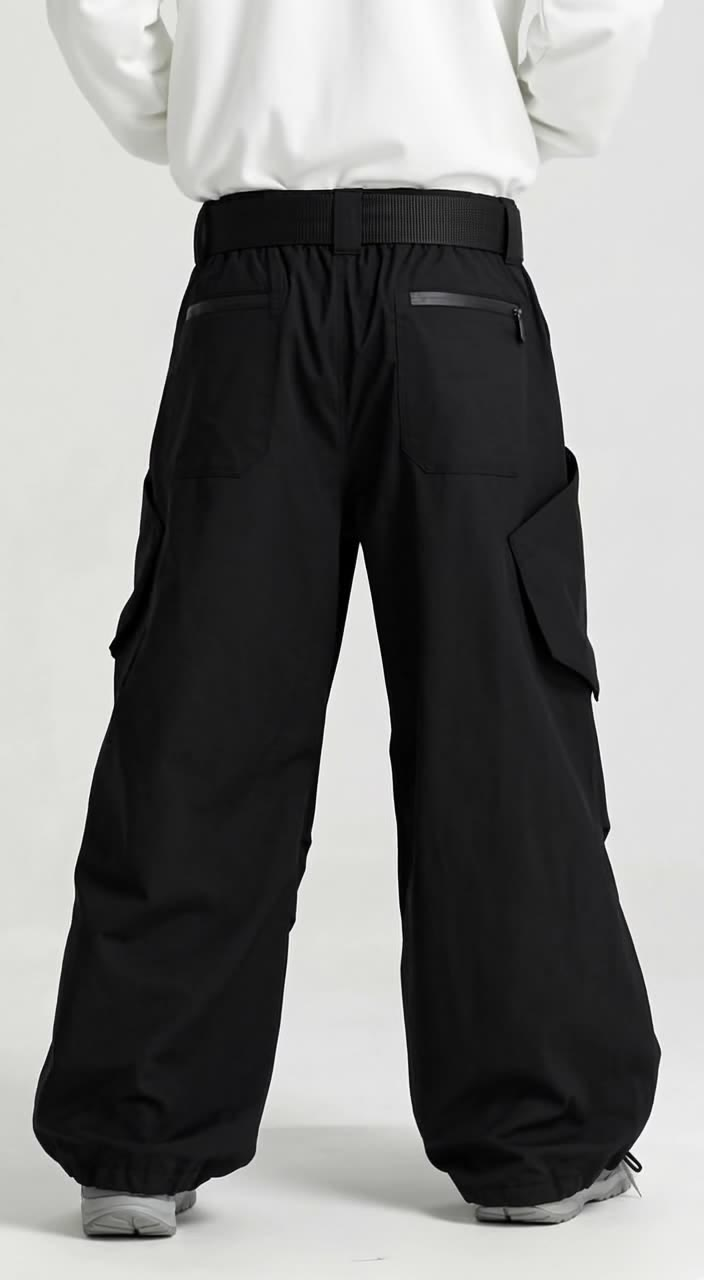
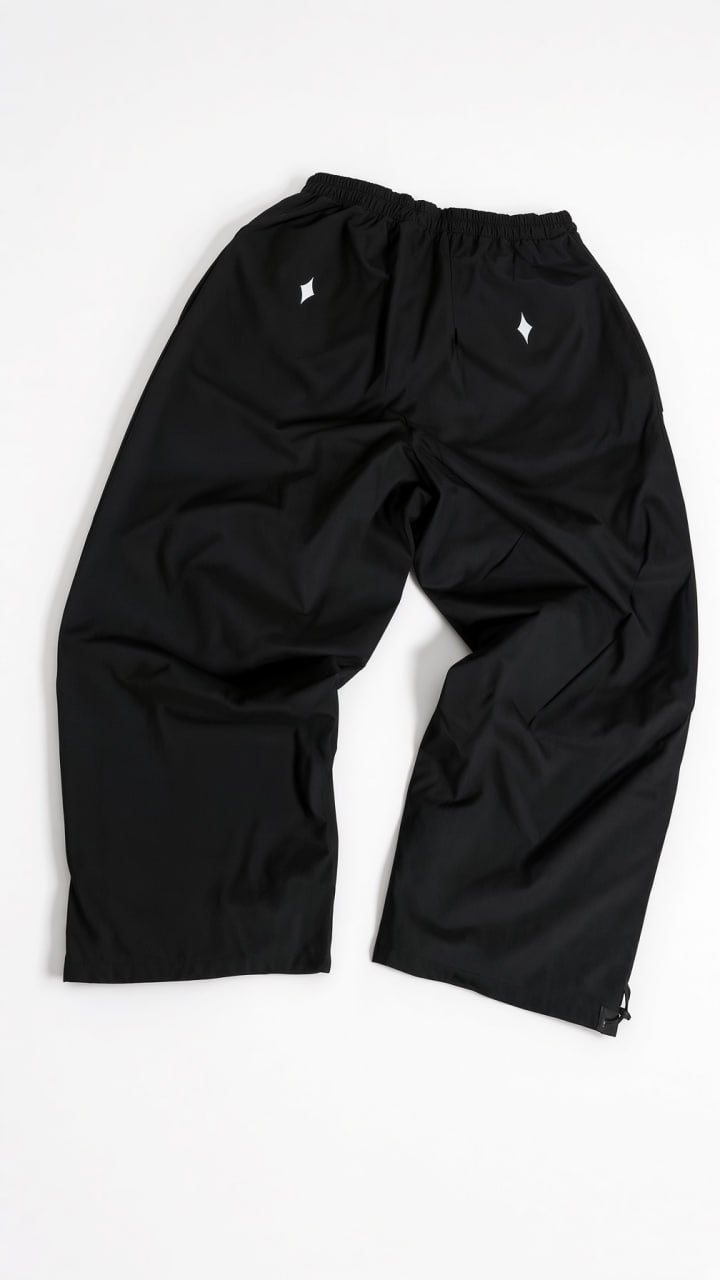
Штаны: настоящие фото, характеристики из описания, размерная сетка, уход за мембранной тканью

diff --git a/index.html b/index.html
@@ -90,10 +90,11 @@
         <div class="hp-gallery" id="hpGallery" aria-label="Фото штанов">
           <div class="hp-gallery__track" id="hpTrack">
             <figure class="hp-gallery__item"><img src="assets/pants/1.jpg" alt="Широкие горнолыжные штаны Coulair Club на райдере" loading="lazy"></figure>
-            <figure class="hp-gallery__item"><img src="assets/pants/2.jpg" alt="Штаны спереди" loading="lazy"></figure>
-            <figure class="hp-gallery__item"><img src="assets/pants/3.jpg" alt="Штаны сбоку" loading="lazy"></figure>
+            <figure class="hp-gallery__item"><img src="assets/pants/2.jpg" alt="Штаны на модели, вид спереди" loading="lazy"></figure>
+            <figure class="hp-gallery__item"><img src="assets/pants/3.jpg" alt="Штаны спереди" loading="lazy"></figure>
             <figure class="hp-gallery__item"><img src="assets/pants/4.jpg" alt="Штаны сзади" loading="lazy"></figure>
-            <figure class="hp-gallery__item hp-gallery__item--wide"><img src="assets/pants/5.jpg" alt="Логотип и карабин крупно" loading="lazy"></figure>
+            <figure class="hp-gallery__item"><img src="assets/pants/5.jpg" alt="Штаны Coulair Club, несколько пар" loading="lazy"></figure>
+            <figure class="hp-gallery__item"><img src="assets/pants/6.jpg" alt="Логотип и карабин крупно" loading="lazy"></figure>
           </div>
           <div class="hp-gallery__dots" id="hpDots" aria-hidden="true"></div>
         </div>
@@ -112,6 +113,7 @@
             <div class="sizes">
               <div class="sizes__head">
                 <p class="sizes__label">Размер</p>
+                <button class="sizes__guide" type="button" data-open-acc="sizeChart">Размерная сетка</button>
               </div>
               <div class="sizes__list" id="sizeList" role="radiogroup" aria-label="Размер">
                 <button class="size" role="radio" aria-checked="false" data-size="M">M</button>
@@ -133,12 +135,33 @@
               <summary>Характеристики</summary>
               <div class="specs-acc__body">
               <ol class="specs-acc__list">
-                <li><strong>Высокая водонепроницаемость 15k:</strong> разработано с показателем 15 000 мм для полной защиты от влаги в условиях сильного снегопада и влажной погоды.</li>
-                <li><strong>Премиальная композитная ткань 3L:</strong> трёхслойная конструкция обеспечивает превосходную защиту от ветра, воздухопроницаемость и исключительную прочность.</li>
-                <li><strong>Модный дизайн в стиле карго:</strong> свободный крой и функциональные карманы, объединяющие уличную моду с атлетической функциональностью.</li>
-                <li><strong>Профессиональная эргономика для катания:</strong> шарнирные колени и усиленные манжеты, специально разработанные для агрессивных движений в сноуборде.</li>
-                <li><strong>TerraNomad Factory Direct:</strong> поставляется от проверенных специалистов по лыжной одежде с полным соблюдением экспортных требований и поддержкой оптовых закупок.</li>
+                <li><strong>Свободный крой в стиле стритвир:</strong> увеличенный фасон в стиле сноуборда соответствует современным зимним трендам и создаёт расслабленный образ.</li>
+                <li><strong>Свобода движений:</strong> широкий крой штанин обеспечивает комфорт при приседаниях, катании и активных движениях на сноуборде и лыжах.</li>
+                <li><strong>Прочный материал рипстоп:</strong> ткань снижает риск разрывов при частом использовании на открытом воздухе.</li>
+                <li><strong>Водонепроницаемость 10K:</strong> мембрана 10&nbsp;000&nbsp;мм защищает от влаги при ежедневном катании и отдыхе на курорте.</li>
               </ol>
+              </div>
+            </details>
+
+            <details class="specs-acc" id="sizeChart">
+              <summary>Размерная сетка</summary>
+              <div class="specs-acc__body">
+                <div class="size-table__wrap">
+                  <table class="size-table">
+                    <thead>
+                      <tr><th>Размер</th><th>Талия</th><th>Бёдра</th><th>Длина</th><th>Длина по внутр. шву</th><th>Обхват бедра</th></tr>
+                    </thead>
+                    <tbody>
+                      <tr><td>XS</td><td>72</td><td>140</td><td>100</td><td>67</td><td>82</td></tr>
+                      <tr><td>S</td><td>76</td><td>146</td><td>103</td><td>69</td><td>84</td></tr>
+                      <tr class="is-stock"><td>M</td><td>80</td><td>152</td><td>106</td><td>71</td><td>86</td></tr>
+                      <tr class="is-stock"><td>L</td><td>84</td><td>158</td><td>109</td><td>73</td><td>88</td></tr>
+                      <tr class="is-stock"><td>XL</td><td>88</td><td>164</td><td>112</td><td>75</td><td>90</td></tr>
+                      <tr><td>XXL</td><td>92</td><td>170</td><td>115</td><td>77</td><td>92</td></tr>
+                    </tbody>
+                  </table>
+                </div>
+                <p class="size-table__note">Все размеры в сантиметрах, замеры изделия. Жирным — размеры в наличии: M, L, XL. Не уверены в размере — напишите нам, подскажем по росту и весу.</p>
               </div>
             </details>
 
@@ -146,10 +169,11 @@
               <summary>Рекомендации по уходу</summary>
               <div class="specs-acc__body">
                 <div class="specs-acc__text">
-                  <p>Рекомендуем стирать изделие при температуре 30&nbsp;°C в деликатном режиме, предварительно вывернув его наизнанку.</p>
-                  <p>Используйте мягкие жидкие средства для стирки. Не рекомендуется использовать отбеливатели и кондиционеры — они могут повлиять на свойства ткани и наполнителя.</p>
-                  <p>Пуховики стирайте отдельно, с мячиками для стирки, и сушите до конца — иначе пух собьётся комками. Сушите пуховик в расправленном виде, периодически встряхивая его для равномерного распределения наполнителя.</p>
-                  <p><strong>ВАЖНО!</strong> Не выкручивайте изделие и не подвергайте его воздействию высокой температуры. Бережный уход поможет сохранить первоначальную форму, внешний вид и свойства пуховика максимально долго.</p>
+                  <p>Стирайте штаны при температуре 30&nbsp;°C в деликатном режиме, предварительно вывернув их наизнанку, застегнув молнии и сняв карабин.</p>
+                  <p>Используйте жидкие средства для мембранных тканей. Не используйте отбеливатели, кондиционеры и обычный порошок — они забивают поры мембраны, и ткань хуже защищает от влаги и перестаёт «дышать».</p>
+                  <p>Отжимайте на низких оборотах, не выкручивайте. Сушите в расправленном виде, вдали от батарей и прямого солнца; не используйте сушильную машину и не гладьте.</p>
+                  <p>Чтобы штаны дольше отталкивали воду, раз в сезон обновляйте пропитку спреем для мембранной одежды.</p>
+                  <p><strong>ВАЖНО!</strong> Не подвергайте изделие воздействию высокой температуры. Бережный уход сохранит форму, внешний вид и водонепроницаемость штанов надолго.</p>
                 </div>
               </div>
             </details>

diff --git a/css/style.css b/css/style.css
@@ -224,6 +224,7 @@ svg.fill { fill: currentColor; stroke: none; }
 .hp-gallery__item img { width: 100%; height: 100%; object-fit: cover; transition: transform .8s var(--ease); }
 .hp-gallery__item:hover img { transform: scale(1.03); }
 .hp-gallery__dots { display: none; }
+.hero-product__grid > * { min-width: 0; }               /* широкая таблица не раздвигает страницу */
 .hp-info { padding: 48px 48px 0; }
 .hp-info__sticky { position: sticky; top: calc(var(--header-h) + 24px); }
 .hp-info__eyebrow { margin: 0 0 10px; font-size: 12px; font-weight: 700; letter-spacing: .14em; text-transform: uppercase; color: var(--muted); }
@@ -236,6 +237,15 @@ svg.fill { fill: currentColor; stroke: none; }
 .hero-product .size { width: auto; height: 52px; border-radius: 4px; }
 .hp-info__cta { min-height: 56px; border-radius: 4px; font-size: 16px; letter-spacing: .02em; }
 .hero-product .perks { margin-top: 20px; }
+.sizes__guide { font-size: 13px; font-weight: 600; color: var(--muted); text-decoration: underline; text-underline-offset: 3px; }
+.sizes__guide:hover { color: var(--ink); }
+.size-table__wrap { overflow-x: auto; margin: 0 0 12px; }
+.size-table { width: 100%; border-collapse: collapse; font-size: 14px; text-align: center; white-space: nowrap; }
+.size-table th { padding: 10px 8px; font-size: 12px; font-weight: 600; color: var(--muted); border-bottom: 1px solid var(--line); }
+.size-table td { padding: 10px 8px; border-bottom: 1px solid #f0eeea; color: #45433f; }
+.size-table td:first-child, .size-table th:first-child { text-align: left; }
+.size-table tr.is-stock td { color: var(--ink); font-weight: 700; }
+.size-table__note { margin: 0 0 18px; font-size: 13px; line-height: 1.55; color: var(--muted); }
 .specs-acc__text { padding: 0 0 18px; font-size: 15px; line-height: 1.65; color: #45433f; }
 .specs-acc__text p { margin: 0 0 12px; }
 .specs-acc + .specs-acc { margin-top: 0; border-top: 0; }

diff --git a/js/main.js b/js/main.js
@@ -621,6 +621,15 @@ function initOrderForm() {
    «Характеристики»: плавное раскрытие по высоте, пункты проявляются по очереди
    ===================================================================== */
 function initSpecsAccordion() {
+  // «Размерная сетка» у выбора размера — раскрывает вкладку и прокручивает к ней
+  document.addEventListener('click', e => {
+    const b = e.target.closest('[data-open-acc]');
+    if (!b) return;
+    const det = document.getElementById(b.dataset.openAcc);
+    if (!det) return;
+    det.openSmooth && det.openSmooth();
+    setTimeout(() => det.scrollIntoView({ behavior: 'smooth', block: 'start' }), 80);
+  });
   $$('.specs-acc').forEach(det => {
     const sum = $('summary', det), body = $('.specs-acc__body', det);
     if (!sum || !body) return;
@@ -630,6 +639,7 @@ function initSpecsAccordion() {
       anim = body.animate({ height: [from + 'px', to + 'px'] }, { duration: 420, easing: 'cubic-bezier(.2,.7,.2,1)' });
       anim.onfinish = () => { anim = null; body.style.height = ''; done && done(); };
     };
+    det.openSmooth = () => { if (!det.open) sum.click(); };
     sum.addEventListener('click', e => {
       e.preventDefault();
       if (!det.open) {
